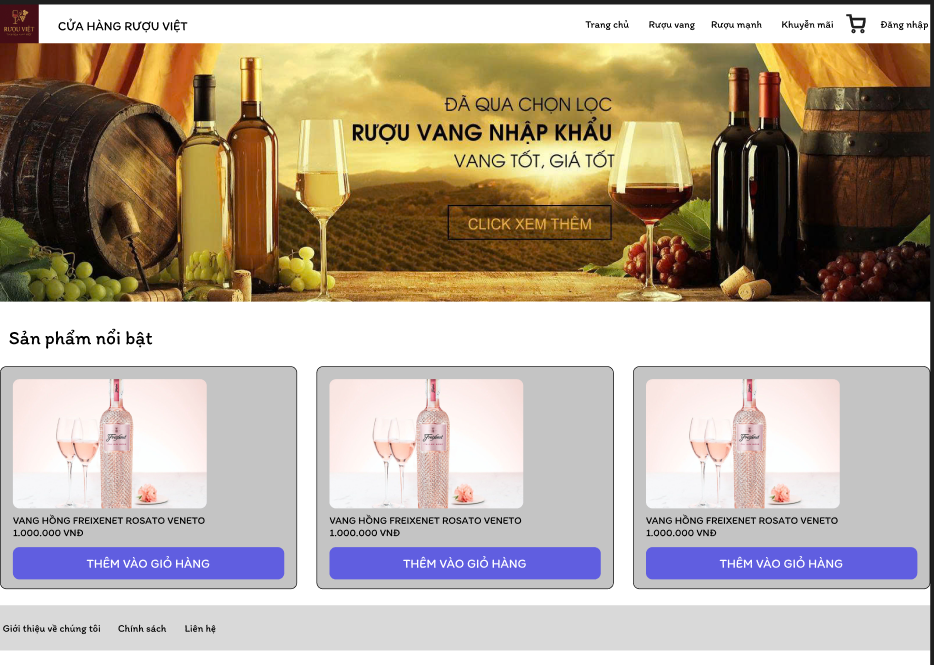
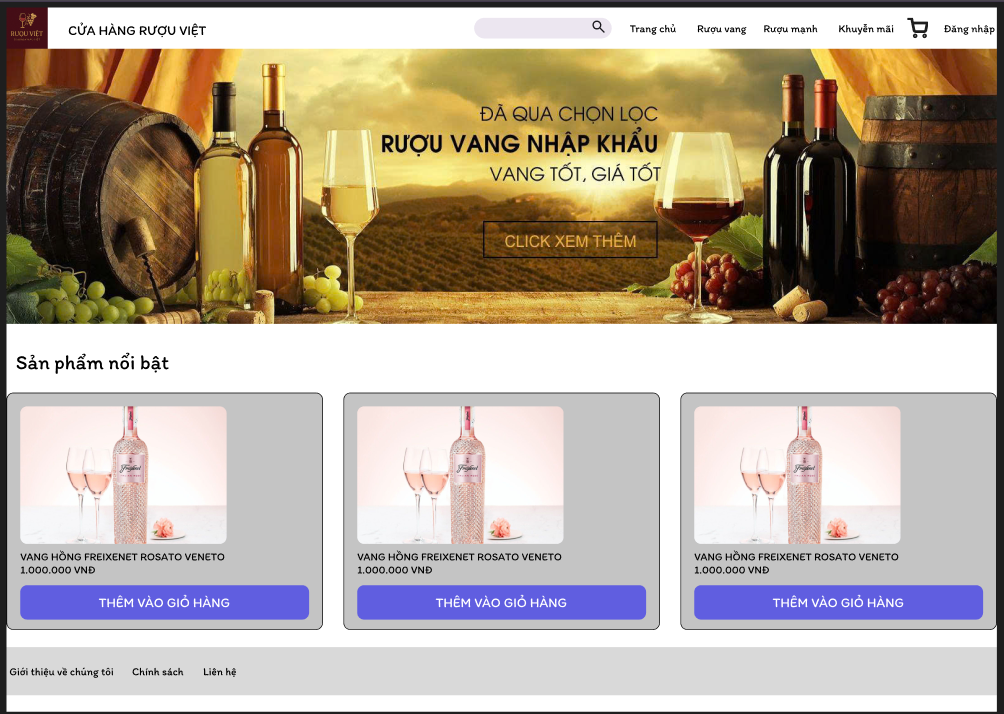
update header vs footer

diff --git a/views/header.php b/views/header.php
@@ -1,0 +1,106 @@
+<!DOCTYPE html>
+<html lang="vi">
+<head>
+    <meta charset="UTF-8">
+    <meta name="viewport" content="width=device-width, initial-scale=1.0">
+    <title>Document</title>
+    <style>
+        .header .nav{
+            display: flex;
+            justify-content: space-between;
+            align-items: center;
+            padding: 0;
+        }
+        .header .nav .menu ul{
+            display: flex;
+            justify-content: space-between;
+        }
+        .header .nav .menu ul li{
+            list-style: none;
+        }
+        .header .nav .menu ul li a{
+            text-decoration: none;
+            color: black;
+            font-size: 16px;
+            padding: 10px 10px;
+            display: block;
+        }
+
+        .header .nav .logo {
+            display: flex;
+            justify-content: space-between;
+        }
+
+        .header .nav .logo a{
+            margin: 10px;
+        }
+
+        .header .nav .logo a{
+            text-decoration: none;
+            color: black;
+            font-size: 16px;
+            padding: 10px 10px;
+            display: block;
+        }
+
+        .search{
+            display: flex;
+            flex-direction: row;
+            flex-wrap: wrap;
+            justify-content: center;
+            border: 1px solid black;
+            padding: 5px;
+            margin: 10px;
+            border-radius: 15px;
+        }
+        .search input{
+            display: inline-block;
+            width: 80%;
+            border: none;
+            outline: none;
+        }
+        .search button{
+            display: inline-block;
+            width: 18%;
+            text-align: center;
+            border: none;
+            background-color: transparent;
+            cursor: pointer;
+            outline: none;
+        }
+        .header .banner img{
+            width: 100%;
+            height: 400px;
+        }
+    </style>
+</head>
+<body>
+        <div class="header">
+            <div class="nav">
+                <div class="logo">
+                    <img src="<?= BASE_UPLOAD . "logo/logo.png" ?>" alt="" width="60">
+                    <a href="<?= BASE_URL ?>">CỬA HÀNG RƯỢU VIỆT</a>
+                </div>
+                <div class="menu">
+                    <ul>
+                    <li>
+                        <form action="#" class="search">
+                            <input  type="text" name="" id="">
+                            <button type="submit"><i class="fa-solid fa-magnifying-glass"></i></button>
+                        </form>
+                    </li>
+                    <li><a href="<?= BASE_URL ?>">Trang chủ</a></li>
+                    <li><a href="#">Rượu vang</a></li>
+                    <li><a href="#">Rượu mạnh</a></li>
+                    <li><a href="#">Khuyễn mãi</a></li>
+                    <li><a href="#"><i class="fa-solid fa-cart-shopping"></i></a></li>
+                    <li><a href="#">Đăng nhập</a></li>
+                </ul>
+                </div>
+            </div>
+            <div class="banner">
+                <img src="<?= BASE_UPLOAD . "banner/banner.jpg" ?>" alt="">
+            </div>
+        </div>
+</body>
+</html>

diff --git a/views/trangchu.php b/views/trangchu.php
@@ -1,0 +1,83 @@
+<!DOCTYPE html>
+<html lang="vi">
+<head>
+    <meta charset="UTF-8">
+    <meta name="viewport" content="width=device-width, initial-scale=1.0">
+    <title>Trang chủ cửa hàng rượu Việt</title>
+    <link rel="stylesheet" href="https://cdnjs.cloudflare.com/ajax/libs/font-awesome/6.5.0/css/all.min.css">
+    <link href="https://fonts.googleapis.com/css2?family=Itim&display=swap" rel="stylesheet">
+    <style>
+        *{
+            padding: 0;
+            margin: 0;
+            font-family: 'Itim', cursive;
+        }
+        .main{
+            padding: 0 200px;
+        }
+        .main .container .product{
+            display: flex;
+            justify-content: space-between;
+            text-align: center;
+            padding: 10px 0 100px 0;
+            flex-wrap: wrap;
+            gap: 16px;
+        }
+        .main .container .product .product_item{
+            width: 24%;
+            border: 1px solid;
+            border-radius: 5px;
+            background-color: #c4c4c4;
+        }
+        .main .container .product .product_item .product_name a{
+            text-align: right;
+            font-size: 16px;
+            text-decoration: none;
+            color: black;
+            font-weight: bold;
+        }
+        .main .container .product .product_item .product_img img{
+            width: 60%;
+            display: flex;
+            justify-content: right;
+            padding: 20px;
+        }
+        .main .container .product .product_item button{
+            width: 90%;
+            padding: 10px;
+            margin: 10px;
+            border-radius: 5px;
+            background-color: #605ee0;
+            color: #f3f3fd;
+            font-size: 16px;
+        }
+        .main .container h2{
+            margin: 20px 0;
+        }
+    </style>
+</head>
+<body>
+    <div class="main">
+        <?php require_once "./views/header.php"; ?>
+        <div class="container">
+            <h2>Sản phẩm nổi bật</h2>
+            <div class="product">
+                <?php foreach($ruouvangList as $item){ ?>
+                    <div class="product_item">
+                        <div class="product_img">
+                            <img src="<?= BASE_UPLOAD . $item['hinh_anh'] ?>" alt="">
+                        </div>
+                        <br>
+                        <div class="product_name">
+                            <a href=""><?= $item['ten'] ?></a>
+                            <p><?= $item['gia'] ?> VND</p>
+                        </div>
+                        <button type="submit">Thêm vào giỏ hàng</button>
+                    </div>
+                <?php } ?>
+            </div>
+        </div>
+        <?php require_once "./views/footer.php"; ?>
+    </div>
+</body>
+</html>

diff --git a/views/footer.php b/views/footer.php
@@ -1,0 +1,33 @@
+<!DOCTYPE html>
+<html lang="vi">
+<head>
+    <meta charset="UTF-8">
+    <meta name="viewport" content="width=device-width, initial-scale=1.0">
+    <title>Document</title>
+    <style>
+        .footer ul{
+            display: flex;
+        }
+        .footer ul li{
+            list-style: none;
+        }
+        .footer ul li a{
+            text-decoration: none;
+            color: black;
+            font-size: 16px;
+            padding: 10px 0;
+            margin: 10px;
+            display: block;
+        }
+    </style>
+</head>
+<body>
+    <div class="footer">
+            <ul>
+                <li><a href="#">Giới thiệu về chúng tôi</a></li>
+                <li><a href="#">Chính sách</a></li>
+                <li><a href="#">Liên hệ</a></li>
+            </ul>
+    </div>
+</body>
+</html>

diff --git a/models/ProductModel.php b/models/ProductModel.php
@@ -9,8 +9,20 @@ class ProductModel
     }
 
     // Viết truy vấn danh sách rượu vang
-    public function getAllProduct()
+    public function getAllRuouvang()
     {
-        
+        $sql = "SELECT * FROM san_pham";
+        $stmt = $this->conn->prepare($sql);
+        $stmt->execute();
+        $ruouvangList = $stmt->fetchAll();
+        return $ruouvangList;
+    }
+
+    function getDetail($id)  {
+        $sql = "select * from users where id = :id";
+        $stmt = $this->conn->prepare($sql);
+        $stmt->execute([':id'=>$id]);
+        $userList = $stmt->fetch();
+        return $userList;
     }
 }

diff --git a/controllers/ProductController.php b/controllers/ProductController.php
@@ -11,6 +11,14 @@ class ProductController
 
     public function Home()
     {
+        $ruouvangList = $this->modelProduct->getAllRuouvang();
         require_once './views/trangchu.php';
+    }
+
+    public function Detail(){
+        if (isset($_GET['id'])) {
+            $detailList = $this->modelProduct->getDetail($_GET['id']);
+            require_once './views/detail.php';
+        }
     }
 }

diff --git a/index.php b/index.php
@@ -20,5 +20,4 @@ $act = $_GET['act'] ?? '/';
 match ($act) {
     // Trang chủ
     '/'=>(new ProductController())->Home(),
-
 };

diff --git a/views/detail.php b/views/detail.php
@@ -1,0 +1,1 @@
+Hsldsflkj

diff --git a/lab2/layout.md b/lab2/layout.md
@@ -1,1 +1,1 @@
-Link figma:(https://www.figma.com/design/o1CKUzYBtUZwwqyKyLpC3j/Untitled?m=auto&t=VJ4nn6vZKCFTr5Za-6);
+Link figma:(https://www.figma.com/design/o1CKUzYBtUZwwqyKyLpC3j/Untitled?m=auto&t=nwUb0wiDJc3SCwkF-6);
